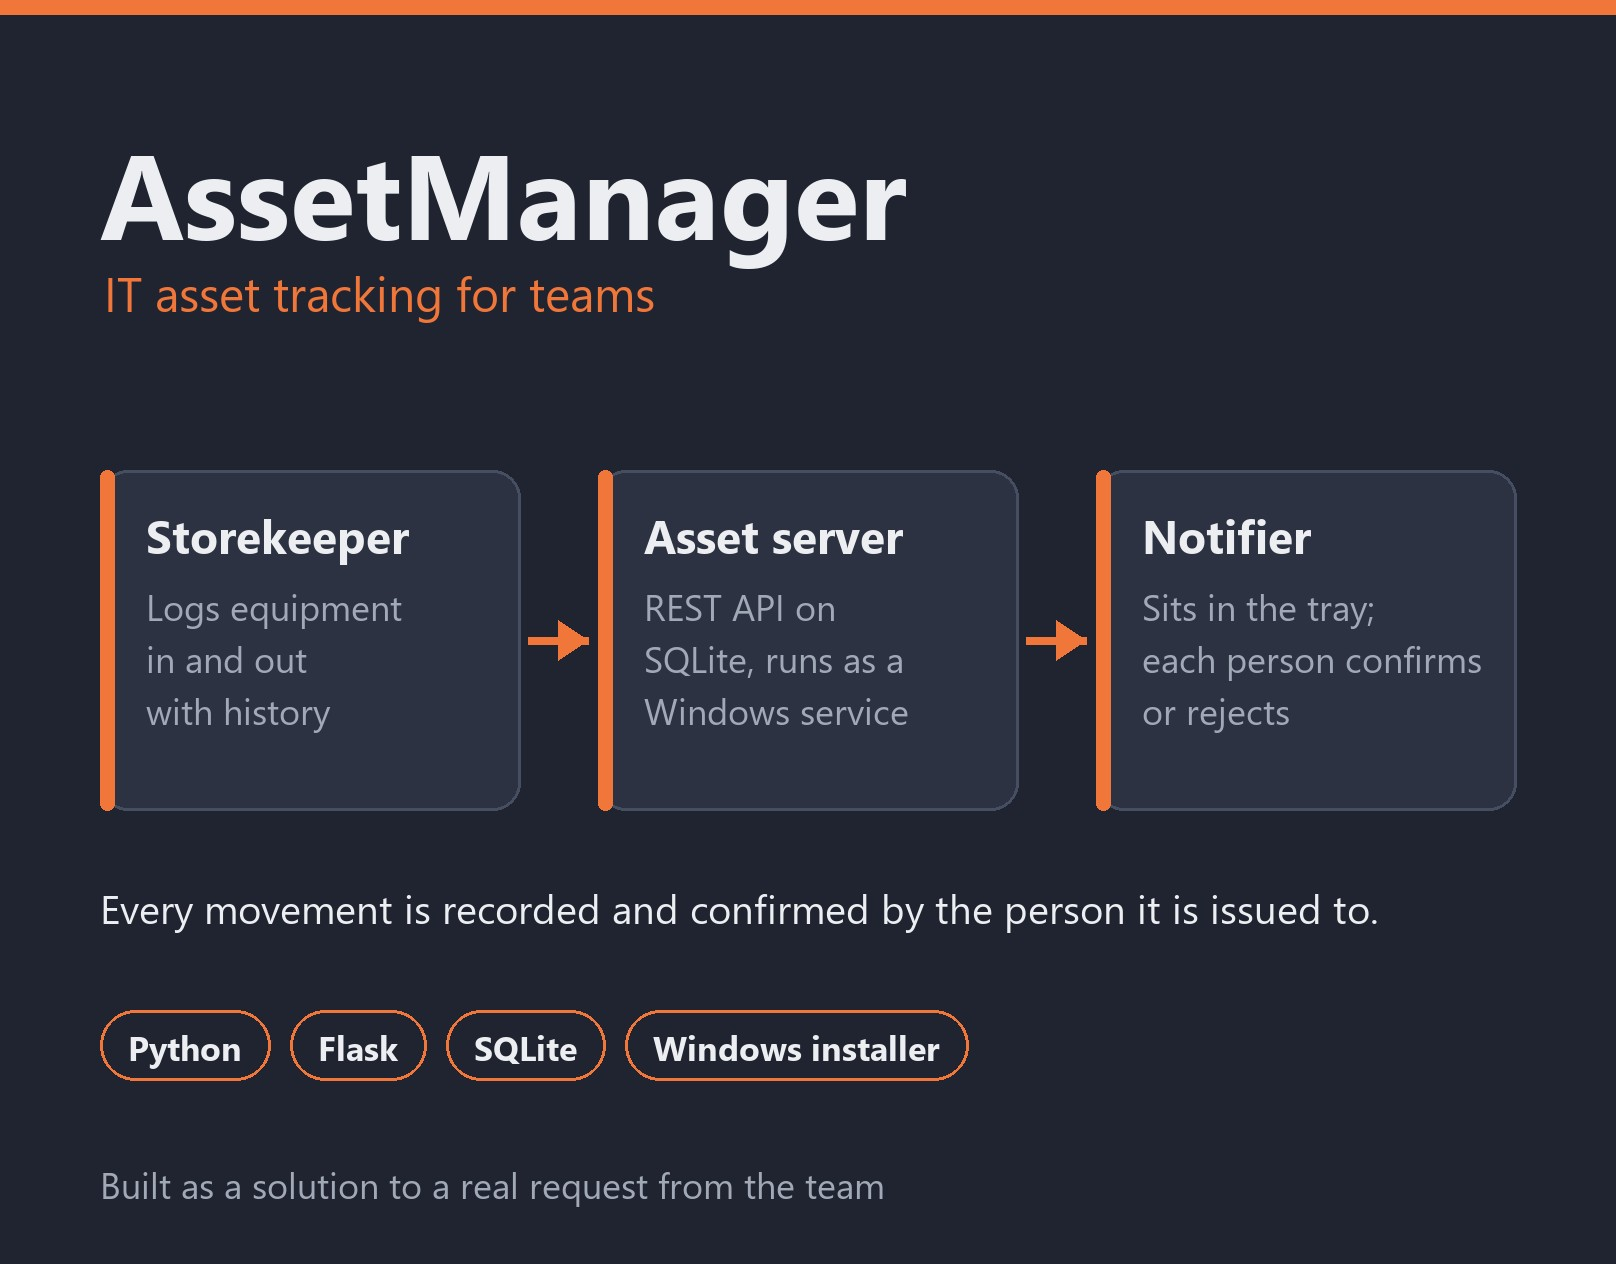
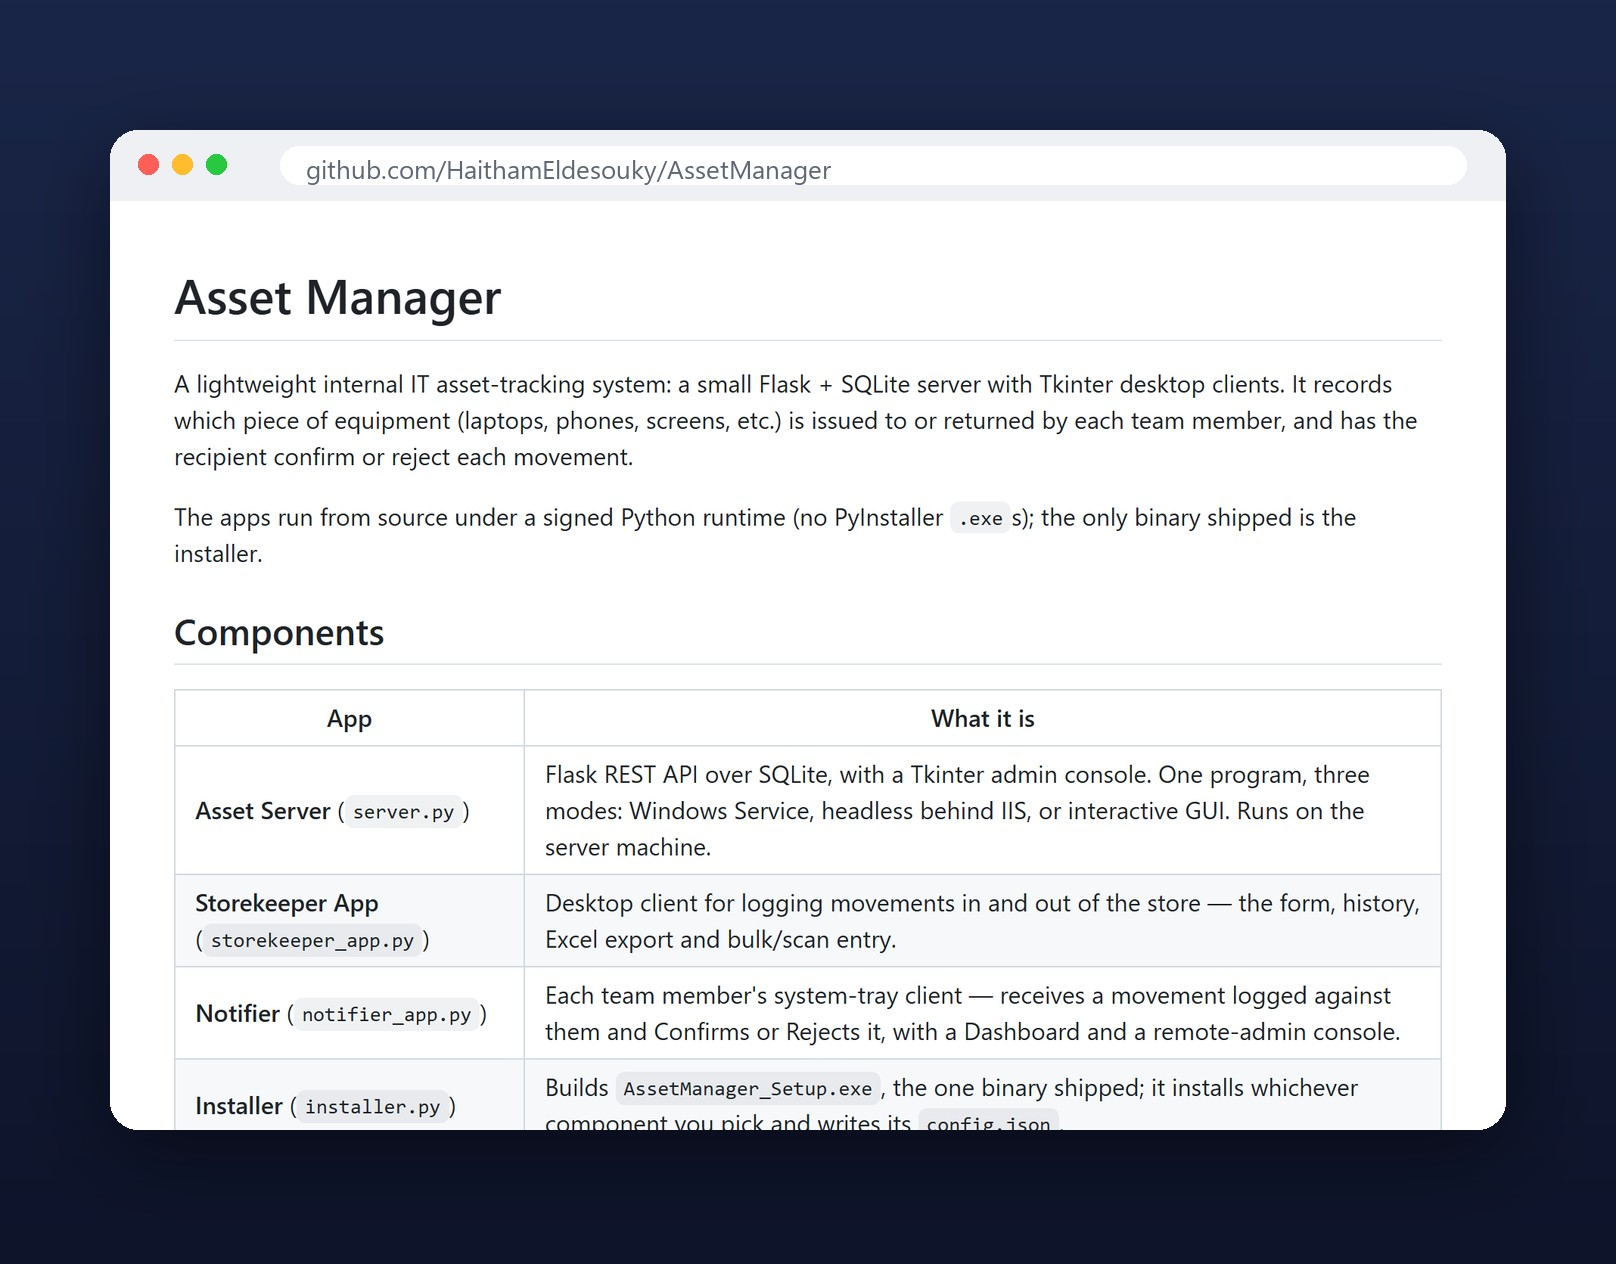
Real-screenshot covers for AssetManager, LedgerLine; add MonsterGym card

diff --git a/index.html b/index.html
@@ -92,6 +92,10 @@ h2.sec{max-width:1100px;margin:12px auto 12px;padding:0 16px;font-size:24px}
 <div class="body"><h2>LedgerLine: Payments Ledger Service</h2><p>A compact, production-shaped ledger in Go: double-entry bookkeeping, safe-to-retry transfers and concurrency control, shipped with Docker, Kubernetes, Helm, Terraform, CI/CD and monitoring.</p><div class="btns"><a class="btn" href="https://github.com/HaithamEldesouky/ledgerline">View on GitHub</a></div></div>
 </article>
 <article class="card">
+<img class="cover" src="images/monstergym/cover.jpg" alt="MonsterGym website on desktop and phone" loading="lazy" width="808" height="632">
+<div class="body"><h2>MonsterGym: Gym Website</h2><p>A responsive front-end for a fictional gym: memberships, gallery, contact and a light/dark switch. Plain HTML, CSS and JavaScript, no build step.</p><div class="btns"><a class="btn" href="https://haithameldesouky.github.io/MonsterGym/">Open live site</a><a class="btn alt" href="https://github.com/HaithamEldesouky/MonsterGym">Source code</a></div></div>
+</article>
+<article class="card">
 <img class="cover" src="images/powershell/cover.jpg" alt="Server Automation" loading="lazy" width="808" height="632">
 <div class="body"><h2>Server Automation</h2><p>Scripts for Windows Server, Active Directory and Microsoft 365, with HTML reports.</p><div class="btns"><a class="btn" href="https://www.fiverr.com/haithamashraf">Hire me</a><a class="btn alt" href="https://github.com/HaithamEldesouky/powershell-server-health-report">Sample script</a></div>
 <details><summary>See all 3 images</summary><div class="thumbs"><a href="images/powershell/01.jpg"><img src="images/powershell/01.jpg" loading="lazy" alt="Server Automation image 01"></a><a href="images/powershell/02.jpg"><img src="images/powershell/02.jpg" loading="lazy" alt="Server Automation image 02"></a><a href="images/powershell/03.jpg"><img src="images/powershell/03.jpg" loading="lazy" alt="Server Automation image 03"></a></div></details></div>
@@ -130,7 +134,7 @@ h2.sec{max-width:1100px;margin:12px auto 12px;padding:0 16px;font-size:24px}
 
 <script>
 (function(){
-  var skip={"HaithamEldesouky":1,"portfolio":1,"AssetManager":1,"ledgerline":1,"ellune-store":1};
+  var skip={"HaithamEldesouky":1,"portfolio":1,"AssetManager":1,"ledgerline":1,"ellune-store":1,"MonsterGym":1};
   fetch("https://api.github.com/users/HaithamEldesouky/repos?sort=pushed&per_page=100")
   .then(function(r){if(!r.ok)throw r.status;return r.json()})
   .then(function(list){
